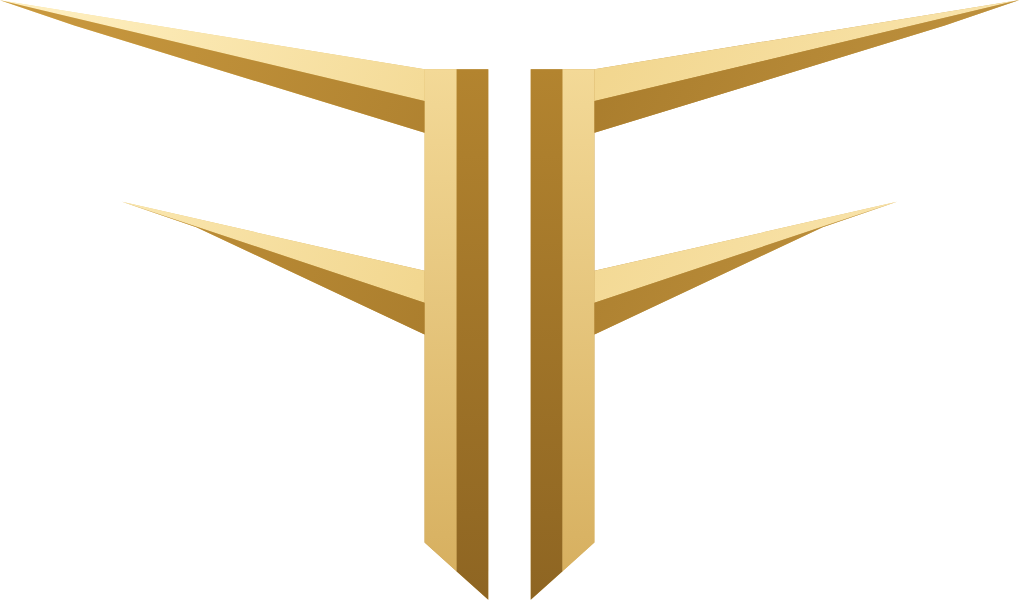
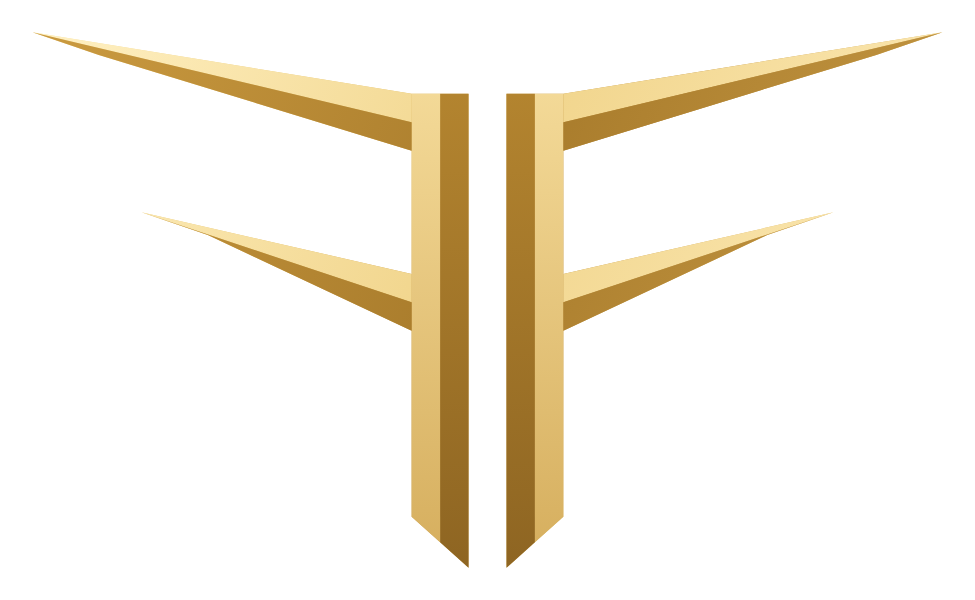
Brand refinements from the pixel-level audit (identity unchanged)
Keeps the approved Wings emblem, logotype and black-and-gold system from
b6398e8; fixes what the audit at 390/768/1280 px, light and dark, found.

Accessibility and legibility
- Operations tables (and the plan table) are focusable, named scroll
  regions with a visible focus ring: the axe "scrollable-region-focusable"
  finding is gone.
- Scrolled-to content clears the sticky top bar (scroll-padding-top):
  the Analyze result and #/account/plan no longer open under the bar.
- Favicon: a micro drawing of the same Wings, snapped to a 16 px grid,
  for the 16 and 32 px sizes (the Bold emblem at 16 px was a blur).
- Header lockup one step larger (22 px top bar and ops, 24 px sidebar) so
  the logotype's strokes stay crisp on 1x screens.

Consistency
- Classic console header: the lockup is labelled without hidden text
  (the heading's gradient text effect was painting it), and the green
  glow is off for the brand.
- Dark mode: the selected segment is raised above its track (--raised),
  not darker than it.
- Profit ranges wrap at "to" instead of being cut off ("-$148 to $1...");
  a negative risk-adjusted value no longer splits its minus sign.
- "Comparables last confirmed" sits under its card, not across its edge.
- Plan table shows the two limits people hit most: car analyses per day
  and saved deals.
- The daily-cap message only offers an upgrade when a higher limit exists
  (Pro is the top plan).

Brand files
[…]

diff --git a/static/app.js b/static/app.js
@@ -225,7 +225,7 @@ function dealCard(d, opts) {
     <div class="deal__metrics">
       <div class="metric"><div class="metric__label">${priceWord(d)}</div><div class="metric__value">${money(d.price)}</div>
         <div class="metric__sub">${drop ? html`was <s>${money(d.previous_price)}</s>` : (d.event === "price_drop" ? "price drop" : " ")}</div></div>
-      <div class="metric"><div class="metric__label">Est. profit</div><div class="metric__value ${pr ? pr.cls : ""}">${pr ? html`<span class="full">${pr.text}</span><span class="compact">${pr.short}</span>` : "—"}</div>
+      <div class="metric"><div class="metric__label">Est. profit</div><div class="metric__value metric__value--range ${pr ? pr.cls : ""}">${pr ? html`<span class="full">${pr.text}</span><span class="compact">${pr.short}</span>` : "—"}</div>
         <div class="metric__sub">${pr ? "after est. costs" : "no valuation"}</div></div>
       <div class="metric"><div class="metric__label">Below mkt</div><div class="metric__value ${disc > 0 ? "pos" : ""}">${disc != null ? pct(disc) : "—"}</div>
         <div class="metric__sub">${n(d.value_mid) ? "mkt " + moneyK(d.value_mid) : " "}</div></div>
@@ -386,7 +386,7 @@ function dealDetail(d) {
   const title = d.title || [d.year, d.make, d.model].filter(Boolean).join(" ");
   const keyMetrics = html`<div class="metrics-box"><div class="deal__metrics" style="border-radius:var(--r-md);border:1px solid var(--line)">
       <div class="metric"><div class="metric__label">${priceWord(d)}</div><div class="metric__value">${money(d.price)}</div><div class="metric__sub">${drop ? html`was <s>${money(d.previous_price)}</s>` : " "}</div></div>
-      <div class="metric"><div class="metric__label">Est. profit</div><div class="metric__value ${pr ? pr.cls : ""}">${pr ? html`<span class="full">${pr.text}</span><span class="compact">${pr.short}</span>` : "—"}</div><div class="metric__sub">${pr ? "after est. costs" : "no valuation"}</div></div>
+      <div class="metric"><div class="metric__label">Est. profit</div><div class="metric__value metric__value--range ${pr ? pr.cls : ""}">${pr ? html`<span class="full">${pr.text}</span><span class="compact">${pr.short}</span>` : "—"}</div><div class="metric__sub">${pr ? "after est. costs" : "no valuation"}</div></div>
       <div class="metric"><div class="metric__label">Below mkt</div><div class="metric__value ${disc > 0 ? "pos" : ""}">${disc != null ? pct(disc) : "—"}</div><div class="metric__sub">${n(d.value_mid) ? "mkt " + moneyK(d.value_mid) : " "}</div></div>
     </div></div>`;
   const actions = html`
@@ -541,7 +541,7 @@ function profitSection(d, p, o) {
       ${opp.risk_adjusted_profit != null ? html`<div>
         <div class="row row--between"><div><div class="eyebrow">Risk-adjusted opportunity</div>
           <p class="xsmall muted">Conservative profit ${money(opp.conservative_profit)} × ${opp.multiplier} for evidence, confidence, condition, freshness, distance and liquidity. Used to rank deals.</p></div>
-          <b class="num" style="font-size:var(--fs-xl)">${money(opp.risk_adjusted_profit)}</b></div>
+          <b class="num" style="font-size:var(--fs-xl);white-space:nowrap;flex:0 0 auto">${money(opp.risk_adjusted_profit)}</b></div>
         <details style="margin-top:var(--s2)"><summary class="small" style="cursor:pointer;font-weight:600">How it's ranked</summary>
           <table class="table" style="margin-top:var(--s2)">${(opp.factors || []).map(f => html`<tr><td>${String(f.name)}<span class="sub">${f.why}</span></td><td class="r">×${f.value}</td></tr>`)}</table></details></div>` : ""}
     </div></section>`;
@@ -729,7 +729,7 @@ function analysisView(a, o) {
     ${own ? html`<div class="notice notice--warn">${icon("alert")}<div><strong>No market value found.</strong> Profit uses your resale estimate of ${money(a.user_estimate)}; FlipFirst has no comparables to back it.</div></div>` : ""}
     ${marketSection(a)}
     ${p ? profitSection(a, p, {purchaseNote: a.offer_price ? "what you expect to pay" : "at the asking price", editHref: o.editHref || "#/analyze"}) : moneyInSection(a)}
-    ${a.freshness ? html`<p class="xsmall muted" style="margin:calc(-1 * var(--s3)) 0 0">Comparables last confirmed ${a.freshness.oldest.slice(0, 10)} to ${a.freshness.newest.slice(0, 10)}.</p>` : ""}
+    ${a.freshness ? html`<p class="xsmall muted" style="margin-top:var(--s2);padding:0 var(--s1)">Comparables last confirmed ${a.freshness.oldest.slice(0, 10)} to ${a.freshness.newest.slice(0, 10)}.</p>` : ""}
     ${compsSection(a)}
     ${riskSection(a)}
     ${missingSection(a)}
@@ -1571,7 +1571,8 @@ async function viewAccount(m, tok) {
   const me = S.me || {};
   const theme = FF.getTheme();
   const planRows = plans && plans.plans ? plans.plans : [];
-  const feat = [["saved_searches", "Saved searches", x => x || "—"], ["alerts_per_day", "Alerts per day", x => x || "—"],
+  const feat = [["analyses_per_day", "Car analyses per day", x => x || "—"], ["opportunities", "Saved deals", x => x ? Number(x).toLocaleString("en-US") : "—"],
+    ["saved_searches", "Saved searches", x => x || "—"], ["alerts_per_day", "Alerts per day", x => x || "—"],
     ["profit_scenarios", "Profit scenarios", x => x ? "✓" : "—"], ["price_drop_alerts", "Price-drop alerts", x => x ? "✓" : "—"],
     ["custom_profit_assumptions", "Custom cost assumptions", x => x ? "✓" : "—"], ["webhook", "Webhook alerts", x => x ? "✓" : "—"],
     ["sms_per_month", "Text alerts / month", x => x || "—"], ["aggressive_mode", "Flagged deals in alerts", x => x ? "✓" : "—"]];
@@ -1581,7 +1582,7 @@ async function viewAccount(m, tok) {
     <section class="card" id="acct-plan" aria-labelledby="h-plan">
       <div class="card__head"><h2 id="h-plan">${icon("zap")}Plan</h2><span class="chip chip--accent">${planName(S.plan)}</span></div>
       <div class="card__body stack">
-        ${planRows.length ? html`<div class="table-wrap"><table class="table"><thead><tr><th scope="col">Feature</th>${planRows.map(p => html`<th scope="col" class="r"${p.plan === S.plan ? raw(' style="color:var(--accent)"') : ""}>${p.name}${p.plan === S.plan ? " (you)" : ""}</th>`)}</tr></thead>
+        ${planRows.length ? html`<div class="table-wrap" tabindex="0" role="region" aria-labelledby="h-plan"><table class="table"><thead><tr><th scope="col">Feature</th>${planRows.map(p => html`<th scope="col" class="r"${p.plan === S.plan ? raw(' style="color:var(--accent)"') : ""}>${p.name}${p.plan === S.plan ? " (you)" : ""}</th>`)}</tr></thead>
           <tbody>${feat.map(([k, l, fmt]) => html`<tr><td>${l}</td>${planRows.map(p => html`<td class="r">${fmt(p[k])}</td>`)}</tr>`)}</tbody></table></div>` : ""}
         <div class="row row--wrap" id="bill-actions">${billActions(bill)}</div>
         <div class="error-text" id="bill-err" role="alert"></div>

diff --git a/static/ff.css b/static/ff.css
@@ -34,6 +34,7 @@
   --danger: #B42318;
   --danger-soft: #FDECEA;
   --neutral-soft: #F0EFEA;
+  --raised: #FFFFFF;          /* the selected segment sits above its track */
   --brand-carbon: #0E0F11;
   --brand-gold: #D9B45A;
   --brand-foil: linear-gradient(118deg, #C9A04C 0%, #A87F2C 30%, #7E5C16 55%, #A98232 75%, #8E6A1E 100%);
@@ -87,7 +88,7 @@
     --profit: #34D399; --profit-soft: #0F2A22;
     --warn: #FB923C; --warn-soft: #2B1B10;
     --danger: #FF7A7A; --danger-soft: #2E1519;
-    --neutral-soft: #212125;
+    --neutral-soft: #212125; --raised: #2B2B30;
     --brand-foil: linear-gradient(118deg, #F6E3A6 0%, #E2BF6C 28%, #B98A3A 52%, #E7C97E 72%, #C6984A 100%);
     --brand-word: #F2EEE4;
     --toast-bg: #232327;
@@ -109,7 +110,7 @@
   --profit: #34D399; --profit-soft: #0F2A22;
   --warn: #FB923C; --warn-soft: #2B1B10;
   --danger: #FF7A7A; --danger-soft: #2E1519;
-  --neutral-soft: #212125;
+  --neutral-soft: #212125; --raised: #2B2B30;
   --brand-foil: linear-gradient(118deg, #F6E3A6 0%, #E2BF6C 28%, #B98A3A 52%, #E7C97E 72%, #C6984A 100%);
   --brand-word: #F2EEE4;
   --toast-bg: #232327;
@@ -124,7 +125,8 @@
    Base
    ========================================================================== */
 *, *::before, *::after { box-sizing: border-box; }
-html { -webkit-text-size-adjust: 100%; text-size-adjust: 100%; }
+html { -webkit-text-size-adjust: 100%; text-size-adjust: 100%;
+       scroll-padding-top: calc(var(--topbar-h) + var(--s3)); }   /* scrolled-to content clears the sticky bar */
 body {
   margin: 0; background: var(--bg); color: var(--ink);
   font: 400 var(--fs-md)/var(--lh) var(--font);
@@ -291,7 +293,7 @@ input[type="range"] { width: 100%; accent-color: var(--accent-strong); }
             display: inline-flex; align-items: center; gap: 6px;
             transition: background var(--t-fast) var(--ease), color var(--t-fast) var(--ease); }
 .seg__btn:hover { color: var(--ink); }
-.seg__btn[aria-selected="true"], .seg__btn[aria-pressed="true"], .seg__btn[aria-checked="true"] { background: var(--surface); color: var(--ink); box-shadow: var(--e1); }
+.seg__btn[aria-selected="true"], .seg__btn[aria-pressed="true"], .seg__btn[aria-checked="true"] { background: var(--raised); color: var(--ink); box-shadow: var(--e1); }
 .seg__btn:focus-visible { outline: none; box-shadow: var(--focus-ring); }
 .seg__count { font-size: var(--fs-xs); color: var(--muted); font-weight: 600; }
 
@@ -367,6 +369,8 @@ input[type="range"] { width: 100%; accent-color: var(--accent-strong); }
 .metric__label { font-size: var(--fs-xs); color: var(--muted); font-weight: 500; white-space: nowrap; }
 .metric__value { font-size: var(--fs-lg); font-weight: 700; letter-spacing: -.01em; font-variant-numeric: tabular-nums;
                  white-space: nowrap; overflow: hidden; text-overflow: ellipsis; }
+/* a profit range may wrap at "to" instead of being cut off */
+.metric__value--range { white-space: normal; text-overflow: clip; line-height: 1.2; }
 .metric__sub { font-size: var(--fs-xs); color: var(--muted); font-variant-numeric: tabular-nums; white-space: nowrap; min-height: 18px; overflow: hidden; text-overflow: ellipsis; }
 .pos { color: var(--profit); } .neg { color: var(--danger); } .warn-text { color: var(--warn); }
 
@@ -393,6 +397,7 @@ input[type="range"] { width: 100%; accent-color: var(--accent-strong); }
 .dl--stack > dt { border-bottom: 0; padding-bottom: 2px; color: var(--muted); font-size: var(--fs-xs); font-weight: 600; }
 .dl--stack > dd { text-align: left; font-weight: 500; padding-top: 0; }
 .table-wrap { overflow-x: auto; -webkit-overflow-scrolling: touch; }
+.table-wrap:focus-visible { outline: 2px solid var(--accent); outline-offset: 2px; border-radius: var(--r-xs); }
 table.table { width: 100%; border-collapse: collapse; font-size: var(--fs-sm); }
 .table th { text-align: left; font-size: var(--fs-xs); font-weight: 600; color: var(--muted); padding: 8px 10px;
             border-bottom: 1px solid var(--line); white-space: nowrap; }
@@ -455,7 +460,7 @@ table.table { width: 100%; border-collapse: collapse; font-size: var(--fs-sm); }
           border-bottom: 1px solid var(--line); }
 .topbar__title { font-size: var(--fs-lg); font-weight: 700; letter-spacing: -.015em; min-width: 0; overflow: hidden;
                  text-overflow: ellipsis; white-space: nowrap; }
-.topbar .brand { --brand-h: 20px; }
+.topbar .brand { --brand-h: 22px; }
 .page { width: 100%; max-width: var(--content-w); margin: 0 auto; padding: var(--s5) var(--s4) calc(var(--tabbar-h) + var(--safe-b) + var(--s8)); }
 .page__head { display: flex; align-items: flex-end; justify-content: space-between; gap: var(--s3); flex-wrap: wrap; margin-bottom: var(--s5); }
 .page__head h1 { font-size: var(--fs-2xl); }
@@ -485,7 +490,7 @@ table.table { width: 100%; border-collapse: collapse; font-size: var(--fs-sm); }
   .toasts { bottom: var(--s6); }
   .sidebar { display: flex; flex-direction: column; position: sticky; top: 0; height: 100vh; padding: var(--s5) var(--s4);
              background: var(--surface); border-right: 1px solid var(--line); }
-  .sidebar .brand { --brand-h: 22px; padding: var(--s1) var(--s2) 0; margin-bottom: var(--s8); }
+  .sidebar .brand { --brand-h: 24px; padding: var(--s1) var(--s2) 0; margin-bottom: var(--s8); }
   .sidenav { display: flex; flex-direction: column; gap: 2px; }
   .sidenav a { display: flex; align-items: center; gap: var(--s3); height: 42px; padding: 0 var(--s3); border-radius: var(--r-sm);
                color: var(--ink-2); font-weight: 600; font-size: var(--fs-sm); text-decoration: none; position: relative; }

diff --git a/static/ops.js b/static/ops.js
@@ -115,7 +115,7 @@ async function load() {
 
       <section class="card span-all" aria-labelledby="h-src"><div class="card__head"><h2 id="h-src">${icon("server")}Data sources</h2>
           <span class="xsmall muted">${dh.vehicles_seen_on_multiple_listings} vehicles cross-posted</span></div>
-        <div class="table-wrap"><table class="table">
+        <div class="table-wrap" tabindex="0" role="region" aria-labelledby="h-src"><table class="table">
           <thead><tr><th scope="col">Source</th><th scope="col">Status</th><th scope="col">Last real success</th><th scope="col" class="r">New (${HOURS}h)</th><th scope="col">Live probe</th></tr></thead>
           <tbody>${dh.sources.map(s => html`<tr>
             <td><span class="src-name">${s.source}</span>${s.commercially_blocked ? html`<span class="sub">not licensed for paid use</span>` : ""}</td>
@@ -137,7 +137,7 @@ async function load() {
 
       <section class="card" aria-labelledby="h-cost"><div class="card__head"><h2 id="h-cost">${icon("dollar")}Costs this month</h2></div>
         <div class="card__body stack">
-          ${c.providers.length ? html`<div class="table-wrap"><table class="table"><thead><tr><th scope="col">Provider</th><th scope="col" class="r">Calls</th><th scope="col" class="r">Budget left</th><th scope="col" class="r">Fees</th></tr></thead>
+          ${c.providers.length ? html`<div class="table-wrap" tabindex="0" role="region" aria-labelledby="h-cost"><table class="table"><thead><tr><th scope="col">Provider</th><th scope="col" class="r">Calls</th><th scope="col" class="r">Budget left</th><th scope="col" class="r">Fees</th></tr></thead>
             <tbody>${c.providers.map(p => html`<tr><td>${p.source}</td><td class="r">${num(p.calls_this_month)}</td><td class="r">${num(p.remaining)} / ${num(p.budget)}</td><td class="r">${money(p.estimated_call_fees_usd)}</td></tr>`)}</tbody></table></div>` : ""}
           <dl class="dl dl--stack">
             <dt>Hosting</dt><dd style="white-space:normal">${isNA(c.hosting) ? naText(c.hosting) : money(c.hosting.value) + " (configured)"}</dd>
@@ -147,7 +147,7 @@ async function load() {
           </dl></div></section>
 
       <section class="card span-all" aria-labelledby="h-top"><div class="card__head"><h2 id="h-top">${icon("trend")}Top potential opportunities</h2><span class="xsmall muted">conservative estimate, default assumptions</span></div>
-        ${di.top_by_conservative_profit.length ? html`<div class="table-wrap"><table class="table"><thead><tr><th scope="col">Vehicle</th><th scope="col">Source</th><th scope="col" class="r">Asking</th><th scope="col" class="r">Conservative</th><th scope="col" class="r">Base</th><th scope="col">Confidence</th></tr></thead>
+        ${di.top_by_conservative_profit.length ? html`<div class="table-wrap" tabindex="0" role="region" aria-labelledby="h-top"><table class="table"><thead><tr><th scope="col">Vehicle</th><th scope="col">Source</th><th scope="col" class="r">Asking</th><th scope="col" class="r">Conservative</th><th scope="col" class="r">Base</th><th scope="col">Confidence</th></tr></thead>
           <tbody>${di.top_by_conservative_profit.map(t => html`<tr><td><a href="/m#/deal/${encodeURIComponent(t.composite_id)}">${t.vehicle}</a><span class="sub">${num(t.comps)} comparables</span></td><td>${t.source}</td>
             <td class="r">${money(t.price)}</td><td class="r pos">${money(t.conservative_profit)}</td><td class="r">${money(t.base_profit)}</td><td>${t.confidence}</td></tr>`)}</tbody></table></div>`
           : html`<div class="card__body"><p class="small na">No potential opportunities in this window.</p></div>`}

diff --git a/dashboard.html b/dashboard.html
@@ -604,7 +604,8 @@ html, body { font-family: ui-sans-serif, -apple-system, BlinkMacSystemFont, "Seg
 .ff-brand .brand__word::after { background: linear-gradient(118deg, #F6E3A6, #D9B45A 45%, #B98A3A 70%, #E7C97E);
   -webkit-mask-image: url("/static/brand/wordmark-first.svg"); mask-image: url("/static/brand/wordmark-first.svg"); }
 .ff-brand small { margin-left: 6px; }
-.sr-only { position: absolute !important; width: 1px; height: 1px; overflow: hidden; clip: rect(0 0 0 0); white-space: nowrap; }
+h1.ff-brand { filter: none !important; background: none !important; -webkit-text-fill-color: currentColor; color: #F2EEE4; }
+.ff-lockup { display: inline-flex; align-items: center; gap: 11px; }
 .ff-brand small a { color: #E2C27A; }
 /* calm the v7 terminal look: no neon glows, readable type, room for the account chip */
 *, *::before, *::after { box-shadow: none !important; }
@@ -630,7 +631,7 @@ input:focus, select:focus, textarea:focus { border-color: var(--cyan) !important
 
 <!-- ============ HEADER ============ -->
 <header>
-  <h1 class="ff-brand"><span class="sr-only">FlipFirst</span><span class="brand__emblem" aria-hidden="true"></span><span class="brand__word" aria-hidden="true"></span> <small>Classic console · <a href="/m">Open app</a> · <a href="/admin/ops">Operations</a></small></h1>
+  <h1 class="ff-brand"><span class="ff-lockup" role="img" aria-label="FlipFirst"><span class="brand__emblem"></span><span class="brand__word"></span></span> <small>Classic console · <a href="/m">Open app</a> · <a href="/admin/ops">Operations</a></small></h1>
   <span class="live-pill"><span class="live-dot"></span><span id="hero-status">SCANNING</span></span>
   <span class="hd-meta">ZIP <strong id="hero-zip">35401</strong> · R<strong id="hero-radius">100</strong>mi</span>
   <span class="hd-meta">LAST <strong id="hero-last">–</strong></span>

diff --git a/mobile.html b/mobile.html
@@ -7,6 +7,15 @@
 <meta name="description" content="FlipFirst finds underpriced used cars near you first, with the comparables, confidence and profit math behind every estimate.">
 <meta name="theme-color" content="#F6F6F3" media="(prefers-color-scheme: light)">
 <meta name="theme-color" content="#0B0B0C" media="(prefers-color-scheme: dark)">
+<meta property="og:type" content="website">
+<meta property="og:site_name" content="FlipFirst">
+<meta property="og:title" content="FlipFirst — Find it first. Flip it better.">
+<meta property="og:description" content="Alerts for underpriced used cars near you, with the comparables and profit math behind every estimate.">
+<meta property="og:image" content="https://app.tryflipfirst.com/static/brand/og-image.png">
+<meta property="og:image:width" content="1200">
+<meta property="og:image:height" content="630">
+<meta property="og:image:alt" content="The FlipFirst wings emblem in gold above the FLIPFIRST logotype on black.">
+<meta name="twitter:card" content="summary_large_image">
 <meta name="mobile-web-app-capable" content="yes">
 <meta name="apple-mobile-web-app-title" content="FlipFirst">
 <link rel="icon" href="/favicon.ico" sizes="any">

diff --git a/ops.html b/ops.html
@@ -15,7 +15,7 @@
   .ops-top { position: sticky; top: 0; z-index: 30; display: flex; align-items: center; gap: var(--s3); flex-wrap: wrap;
              padding: var(--s3) var(--s4); background: color-mix(in srgb, var(--surface) 90%, transparent);
              -webkit-backdrop-filter: blur(12px); backdrop-filter: blur(12px); border-bottom: 1px solid var(--line); }
-  .ops-top .brand { --brand-h: 20px; }
+  .ops-top .brand { --brand-h: 22px; }
   .ops-top__title { font-weight: 650; color: var(--muted); border-left: 1px solid var(--line-strong); padding-left: var(--s3); }
   .ops { max-width: 1240px; margin: 0 auto; padding: var(--s5) var(--s4) var(--s12); }
   .ops-grid { display: grid; gap: var(--s4); grid-template-columns: minmax(0, 1fr); margin-top: var(--s4); }

diff --git a/brand/render.js b/brand/render.js
@@ -11,9 +11,9 @@ const E = p => path.join(ROOT, "brand", "exports", p);
 
 // [source svg, output png, width, height]
 const JOBS = [
-  [S("favicon.svg"), S("favicon-16.png"), 16, 16],
+  [S("favicon.svg"), S("favicon-16.png"), 16, 16],                  // 16 and 32 px: the micro Wings
   [S("favicon.svg"), S("favicon-32.png"), 32, 32],
-  [S("favicon.svg"), S("favicon-48.png"), 48, 48],
+  [E("favicon-48.svg"), S("favicon-48.png"), 48, 48],                // 48 px: the Bold emblem
   [E("app-icon.svg"), S("apple-touch-icon.png"), 180, 180],          // iOS rounds the corners itself
   [E("app-icon-rounded.svg"), S("icon-192.png"), 192, 192],
   [E("app-icon-rounded.svg"), S("icon-512.png"), 512, 512],

diff --git a/login.html b/login.html
@@ -8,6 +8,8 @@
 <meta property="og:title" content="FlipFirst — Find it first. Flip it better.">
 <meta property="og:description" content="Alerts for underpriced used cars near you, with the comparables and profit math behind every estimate.">
 <meta property="og:type" content="website">
+<meta property="og:site_name" content="FlipFirst">
+<meta property="og:url" content="https://app.tryflipfirst.com/login">
 <meta property="og:image" content="https://app.tryflipfirst.com/static/brand/og-image.png">
 <meta property="og:image:width" content="1200">
 <meta property="og:image:height" content="630">

diff --git a/brand/build.py b/brand/build.py
@@ -52,6 +52,24 @@ WINGS = {   # the full emblem, 48 px and up
 }
 
 
+# The Wings drawn for 16 px: same mirrored F, swept wings and pointed stems,
+# snapped to a 16-unit pixel grid (x = 8 is the centre line) so the favicon
+# stays sharp at 16 and 32 px. Right half only; the left half is its mirror.
+MICRO = {
+    "stem": [(9, 3.5), (11, 3.5), (11, 11.5), (9, 13)],
+    "top": [(9, 3.5), (15.5, 2), (15, 3.6), (11, 5.6)],
+    "mid": [(9, 7), (14, 6), (13.4, 7.4), (11, 9)],
+}
+
+
+def micro_favicon(px=32):
+    """The favicon: the micro Wings, flat gold on a carbon tile, on a 16-unit grid."""
+    mirror = lambda p: [(16 - x, y) for x, y in p][::-1]   # noqa: E731
+    body = "".join(f'<path d="{_d(p)}"/><path d="{_d(mirror(p))}"/>' for p in MICRO.values())
+    return (f'<svg xmlns="http://www.w3.org/2000/svg" viewBox="0 0 16 16" width="{px}" height="{px}" role="img" '
+            f'aria-label="FlipFirst"><rect width="16" height="16" rx="3.6" fill="{CARBON}"/><g fill="{GOLD}">{body}</g></svg>\n')
+
+
 def _d(pts):
     return "M" + " L".join(f"{x:.2f},{y:.2f}" for x, y in pts) + " Z"
 
@@ -200,9 +218,10 @@ def lockup(theme, stacked=False, weight=None):
         ew = eh * emblem_aspect()
         cap = 40.0
         gap = 30.0
-        W, H = ew + gap + ww * cap / 100, eh
-        body = (emblem(ew / 2, eh / 2, ew, finish="faceted" if theme == "dark" else "foil")
-                + f'<g transform="translate({ew + gap:.2f} {(eh - cap) / 2:.2f}) scale({cap / 100})">{word}</g>')
+        pad = 12.0                      # file margin: nothing touches the edge
+        W, H = ew + gap + ww * cap / 100 + 2 * pad, eh + 2 * pad
+        body = (emblem(pad + ew / 2, pad + eh / 2, ew, finish="faceted" if theme == "dark" else "foil")
+                + f'<g transform="translate({pad + ew + gap:.2f} {pad + (eh - cap) / 2:.2f}) scale({cap / 100})">{word}</g>')
     return svg(round(W, 2), round(H, 2), body, defs=emblem_defs(foil=foil), label="FlipFirst")
 
 
@@ -231,8 +250,8 @@ def assets():
     out = [
         # --- served by the app
         ("static/brand/flipfirst-mark.svg", svg(64, 64, tile(64, finish="foil", emb="bold", wing=.78), defs=emblem_defs(), label="FlipFirst")),
-        ("static/brand/flipfirst-glyph.svg", svg(round(100 * ea, 2), 100, emblem(50 * ea, 50, 100 * ea, finish="foil"), defs=emblem_defs(), label="FlipFirst")),
-        ("static/brand/favicon.svg", svg(32, 32, tile(32, finish="flat", emb="bold", wing=.84), label="FlipFirst")),
+        ("static/brand/flipfirst-glyph.svg", svg(round(100 * ea + 12, 2), 112, emblem(50 * ea + 6, 56, 100 * ea, finish="foil"), defs=emblem_defs(), label="FlipFirst")),
+        ("static/brand/favicon.svg", micro_favicon(32)),
         ("static/brand/emblem-mask.svg", svg(round(100 * ba, 2), 100, emblem(50 * ba, 50, 100 * ba, size="bold", finish="flat", color="#000"))),
     ]
     for part in ("flip", "first"):
@@ -240,6 +259,7 @@ def assets():
         out.append((f"static/brand/wordmark-{part}.svg", svg(round(ww, 2), 100, g)))
     # --- sources for the PNG sizes and the brand kit (not served)
     out += [
+        ("brand/exports/favicon-48.svg", svg(48, 48, tile(48, finish="flat", emb="bold", wing=.84), label="FlipFirst")),
         ("brand/exports/app-icon.svg", svg(512, 512, tile(512, full_bleed=True), defs=emblem_defs())),
         ("brand/exports/app-icon-rounded.svg", svg(512, 512, tile(512), defs=emblem_defs())),
         ("brand/exports/app-icon-maskable.svg", svg(512, 512, tile(512, full_bleed=True, wing=.6), defs=emblem_defs())),
@@ -251,10 +271,11 @@ def assets():
         ww, g = wordmark("text", cols)
         out += [(f"brand/exports/flipfirst-logo-{theme}.svg", lockup(theme)),
                 (f"brand/exports/flipfirst-logo-stacked-{theme}.svg", lockup(theme, stacked=True)),
-                (f"brand/exports/flipfirst-wordmark-{theme}.svg", svg(round(ww, 2), 100, g, label="FlipFirst"))]
+                (f"brand/exports/flipfirst-wordmark-{theme}.svg",
+                 svg(round(ww + 24, 2), 124, f'<g transform="translate(12 12)">{g}</g>', label="FlipFirst"))]
     out += [
-        ("brand/exports/flipfirst-emblem-gold.svg", svg(round(100 * ea, 2), 100, emblem(50 * ea, 50, 100 * ea), defs=emblem_defs(), label="FlipFirst")),
-        ("brand/exports/flipfirst-emblem-flat.svg", svg(round(100 * ea, 2), 100, emblem(50 * ea, 50, 100 * ea, finish="flat"), label="FlipFirst")),
+        ("brand/exports/flipfirst-emblem-gold.svg", svg(round(100 * ea + 12, 2), 112, emblem(50 * ea + 6, 56, 100 * ea), defs=emblem_defs(), label="FlipFirst")),
+        ("brand/exports/flipfirst-emblem-flat.svg", svg(round(100 * ea + 12, 2), 112, emblem(50 * ea + 6, 56, 100 * ea, finish="flat"), label="FlipFirst")),
         ("brand/exports/flipfirst-badge.svg", svg(512, 512, tile(512), defs=emblem_defs(), label="FlipFirst")),
     ]
     return out

diff --git a/tests/test_brand.py b/tests/test_brand.py
@@ -183,3 +183,55 @@ def test_no_icon_without_an_https_origin(monkeypatch, origin):
     monkeypatch.setenv("BILLING_ORIGIN", origin)
     notifications._send_ntfy("flipfirst-test", "t", "b", "")
     assert "icon" not in sent["payload"] and "tags" not in sent["payload"]
+
+
+# ---------- vector files are valid, self-contained and safe ---------------------
+def _svgs():
+    return sorted([*(ROOT / "static" / "brand").glob("*.svg"), *(ROOT / "brand" / "exports").glob("*.svg")])
+
+
+def test_every_svg_is_well_formed_self_contained_and_script_free():
+    import xml.etree.ElementTree as ET
+    assert len(_svgs()) >= 20
+    for p in _svgs():
+        text = p.read_text(encoding="utf-8")
+        root = ET.fromstring(text)                                   # raises on malformed XML
+        assert root.tag == "{http://www.w3.org/2000/svg}svg", p
+        vb = [float(v) for v in root.get("viewBox").split()]
+        assert len(vb) == 4 and vb[2] > 0 and vb[3] > 0, p
+        assert not re.search(r"\b(nan|inf)\b", text, re.I), p
+        assert "<script" not in text and not re.search(r"\son\w+=", text), p     # no script or event handlers
+        assert not re.search(r'href="(https?:)?//', text), p                     # nothing loaded from elsewhere
+
+
+def test_favicon_is_the_pixel_snapped_micro_emblem():
+    fav = (ROOT / "static" / "brand" / "favicon.svg").read_text()
+    assert 'viewBox="0 0 16 16"' in fav                              # drawn on the 16 px grid
+
+
+# ---------- Safari: every mask also has its -webkit- form -------------------------
+@pytest.mark.parametrize("path", ["static/ff.css", "dashboard.html"])
+def test_masks_carry_webkit_prefixes(path):
+    css = (ROOT / path).read_text()
+    for block in re.findall(r"\{([^{}]*)\}", css):
+        decls = [d.strip() for d in block.split(";")]
+        for prop in ("mask", "mask-image"):
+            if any(d.startswith(prop + ":") for d in decls):
+                assert any(d.startswith("-webkit-" + prop + ":") for d in decls), (path, block[:120])
+
+
+# ---------- keyboard: scrollable tables can be reached and scrolled ---------------
+@pytest.mark.parametrize("path", ["static/ops.js", "static/app.js"])
+def test_scrollable_tables_are_focusable_named_regions(path):
+    js = (ROOT / path).read_text()
+    wraps = re.findall(r'<div class="table-wrap"[^>]*>', js)
+    assert wraps, path
+    for w in wraps:
+        assert 'tabindex="0"' in w and 'role="region"' in w and "aria-labelledby=" in w, w
+
+
+def test_app_shell_has_a_link_preview_too():
+    shell = (ROOT / "mobile.html").read_text()
+    assert '<meta property="og:image" content="https://app.tryflipfirst.com/static/brand/og-image.png">' in shell
+    login = (ROOT / "login.html").read_text()
+    assert '<meta property="og:url" content="https://app.tryflipfirst.com/login">' in login

diff --git a/tests/test_analyze.py b/tests/test_analyze.py
@@ -160,6 +160,25 @@ def test_only_comparables_allowed_on_screen_are_used(client, world):
 
 # ---------- API ---------------------------------------------------------------
 
+def test_daily_cap_message_offers_an_upgrade_only_when_one_exists(client, world, monkeypatch):
+    """A Pro member at the cap isn't told to upgrade: Pro is the top plan."""
+    monkeypatch.setenv("PLAN_LIMITS_JSON", '{"free": {"analyses_per_day": 1}, "starter": {"analyses_per_day": 2}, '
+                                           '"pro": {"analyses_per_day": 2}}')
+    make_user(client, "free-cap@example.com", plan="free", topic=False)
+    login(client, "free-cap@example.com")
+    assert client.post("/api/analyze", json=CAMRY).status_code == 200
+    r = client.post("/api/analyze", json={**CAMRY, "mileage": 150000})
+    assert r.status_code == 429 and "upgrade for a higher limit" in r.get_json()["error"]
+    client.post("/api/auth/logout")
+    make_user(client, "pro-cap@example.com", plan="pro", topic=False)
+    login(client, "pro-cap@example.com")
+    assert client.post("/api/analyze", json=CAMRY).status_code == 200
+    assert client.post("/api/analyze", json={**CAMRY, "mileage": 140000}).status_code == 200
+    r = client.post("/api/analyze", json={**CAMRY, "mileage": 150000})
+    assert r.status_code == 429
+    assert r.get_json()["error"] == "You've used today's 2 analyses on your plan; more tomorrow."
+
+
 def test_analyze_api_free_plan_daily_limit_and_login(client, world, monkeypatch):
     assert client.post("/api/analyze", json=CAMRY).status_code == 401
     make_user(client, "free@example.com", plan="free", topic=False)

diff --git a/server.py b/server.py
@@ -2540,8 +2540,10 @@ def _run_analysis(u, body) -> tuple[Optional[dict], Optional[tuple]]:
         repeat = conn.execute("SELECT 1 FROM usage_events WHERE user_id = ? AND kind = 'analysis' "
                               "AND ref = ? AND created_at >= ?", (u.id, key, since)).fetchone()
     if used >= limit and not repeat:
-        return None, (jsonify({"error": f"You've used today's {limit} analyses on your plan; "
-                                        "more tomorrow, or upgrade for a higher limit.",
+        import plans
+        higher = any(plans.limits(p).get("analyses_per_day", 0) > limit for p in plans.DISPLAY_NAMES)
+        return None, (jsonify({"error": f"You've used today's {limit} analyses on your plan; more tomorrow"
+                                        + (", or upgrade for a higher limit." if higher else "."),
                                "limit": limit}), 429)
     limits = _display_limits()
     result, errs = analyze_mod.analyze(body, settings=settings, home_zip=home_zip,
